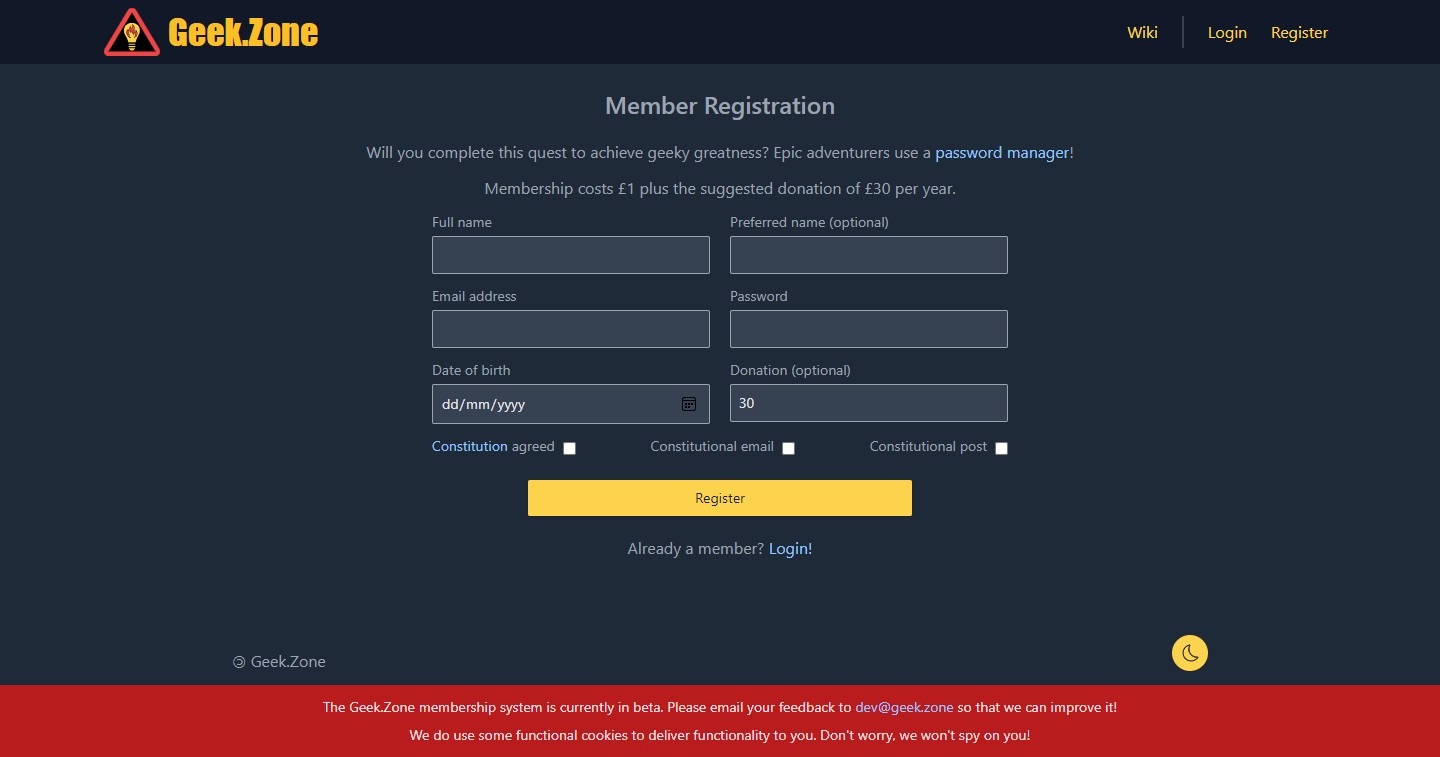
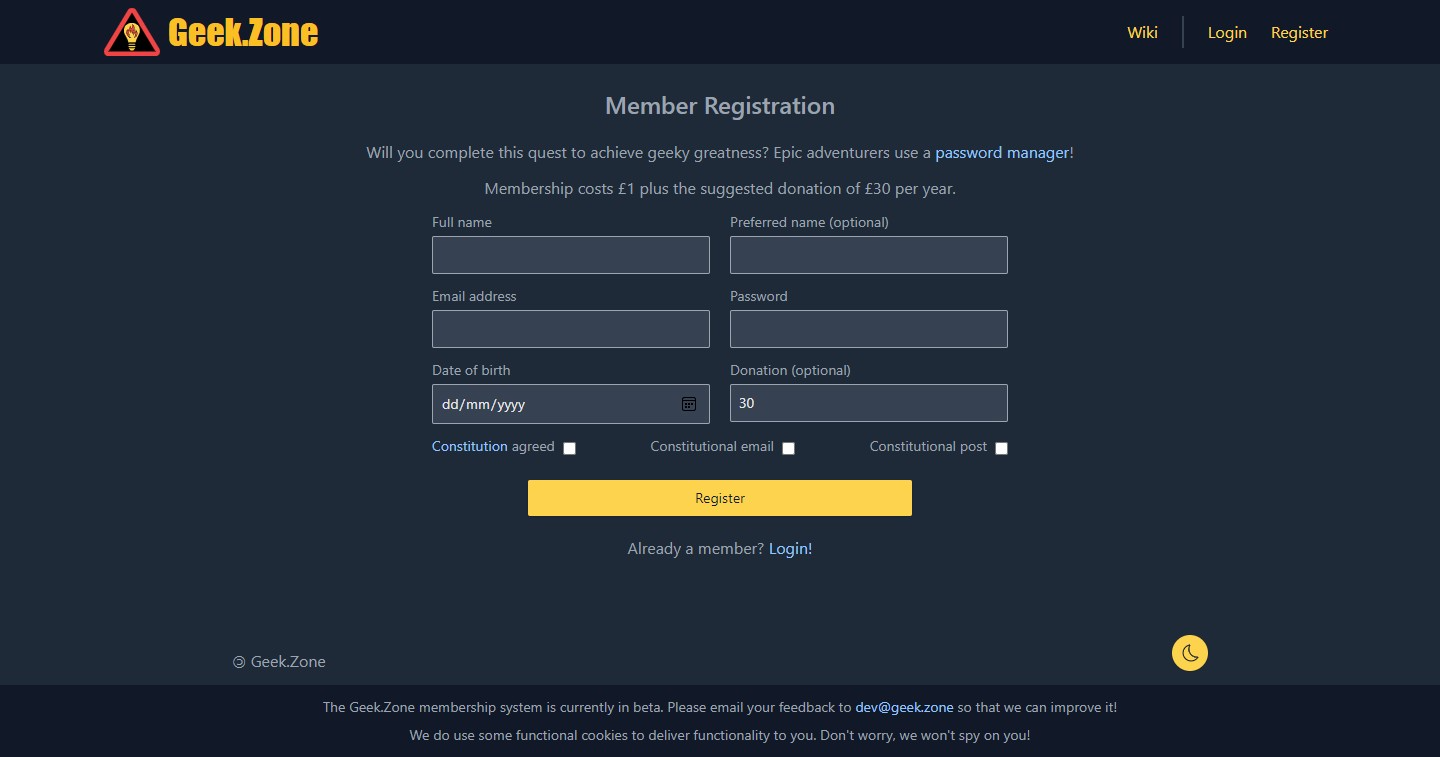
Changed background of footer notice to dark gray; Removed profile_image field from member details and settings forms; Updated screenshots.

Changed region(s): [[0.0, 0.8811, 1.0, 1.0]]

diff --git a/memberships/templates/base.html b/memberships/templates/base.html
@@ -82,7 +82,7 @@
           </svg>
         </button>
       </div>
-      <div class="text-white dark:text-red-100 bg-red-500 dark:bg-red-700">
+      <div class="text-white dark:text-gray-400 bg-red-500 dark:bg-gray-900">
         <div class="mx-auto pt-3 px-4 pb-4 sm:pb-3 sm:px-6 max-w-7xl text-sm text-center">
           <p class="mb-3 sm:mb-2">
             The Geek.Zone membership system is currently in beta. Please email your feedback to

diff --git a/memberships/templates/memberships/member_details.html b/memberships/templates/memberships/member_details.html
@@ -8,12 +8,6 @@
     {% csrf_token %}
 
     <div class="grid sm:grid-cols-2 gap-y-2 justify-start justify-items-start items-center mb-3 sm:ml-4 w-max text-sm">
-      <div class="-mb-2 sm:mb-0 font-bold">Selfie:</div>
-      
-      <div class="ml-4">
-        {% if profile_image %}{{ profile_image }}{% else %}-{% endif %}
-      </div>
-
       {% for field in form %}
         {{ field | add_label_class:"-mb-2 sm:mb-0 font-bold"}}
 

diff --git a/memberships/views.py b/memberships/views.py
@@ -157,10 +157,7 @@ def details_view(request):
     return render(
         request,
         "memberships/member_details.html",
-        {
-            "form": MemberDetailsForm(instance=request.user.member, label_suffix=""),
-            "profile_image": request.user.member.profile_image,
-        },
+        {"form": MemberDetailsForm(instance=request.user.member, label_suffix="")},
     )
 
 

diff --git a/memberships/forms.py b/memberships/forms.py
@@ -104,6 +104,7 @@ class MemberSettingsForm(ModelForm):
             "user",
             "constitution_agreed",
             "renewal_date",
+            "profile_image",
         ]  # JDG Should also exclude renewal date once we have it
         widgets = {"birth_date": DateInput()}
 
